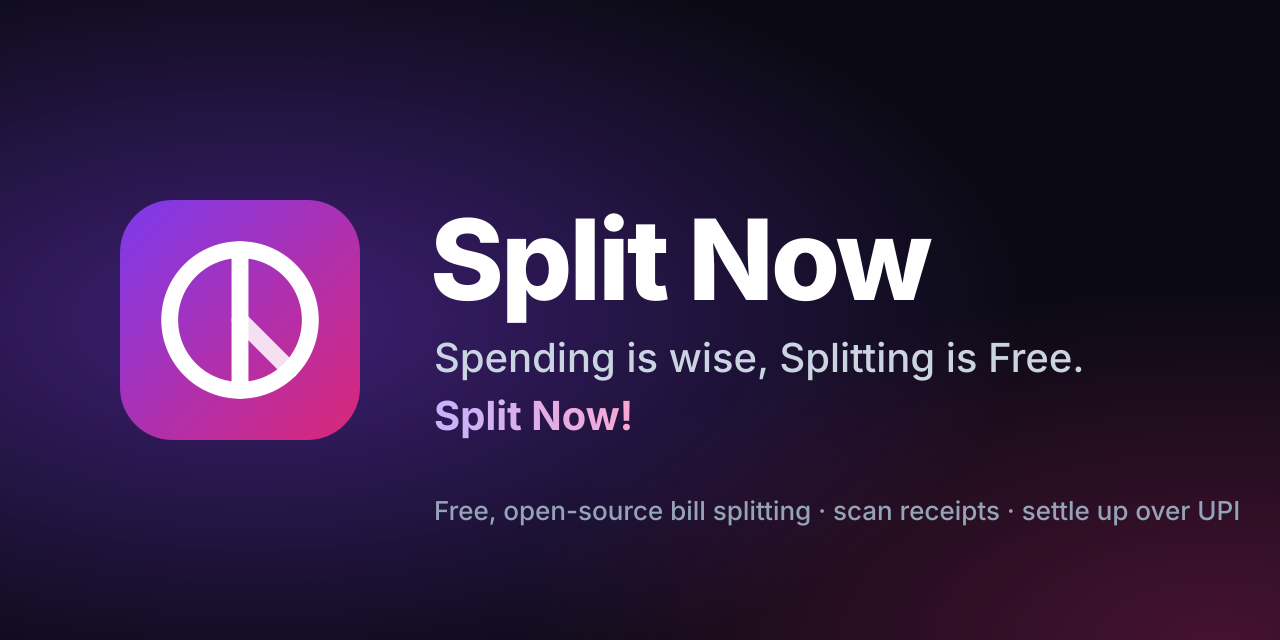
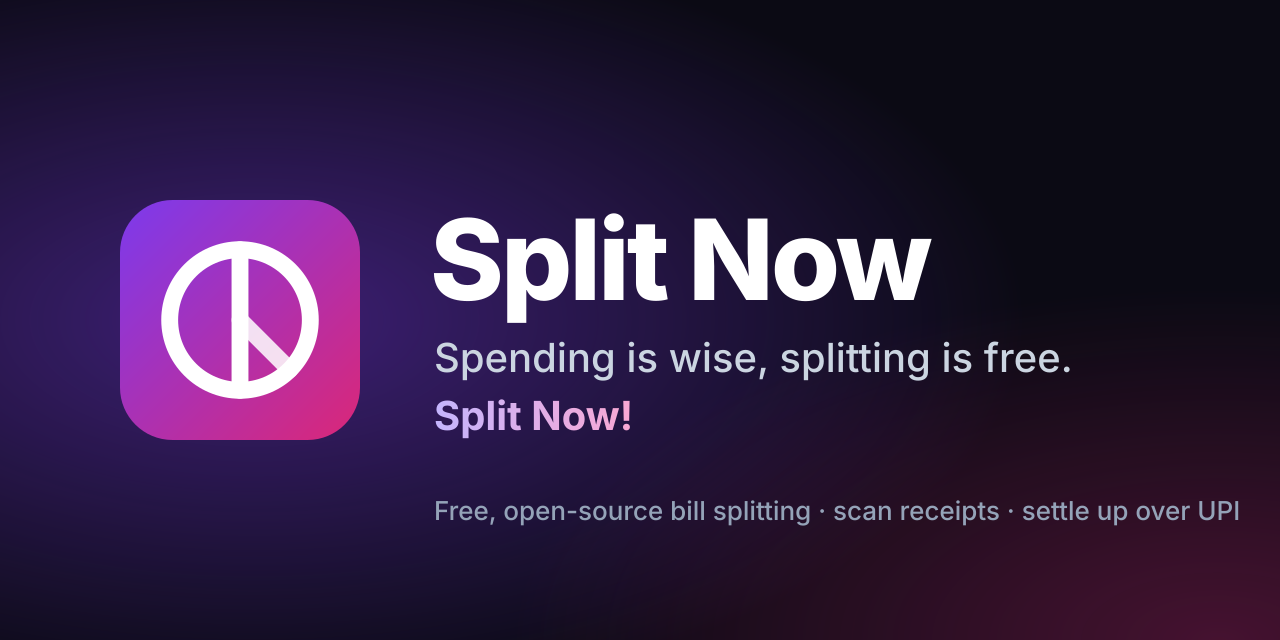
Support the developer in Profile; tagline in sentence case (#18)
* Tagline in sentence case: "Spending is wise, splitting is free. Split Now!"

Only the app name keeps its capitals. Updated in the splash, Login,
Profile, the manifest, meta tags, package.json, the changelog, and the
images that carry it (docs/assets/hero.png, social-preview.png and the
link-preview public/og-image.jpg, all regenerated).

* Profile: Support the developer (Buy Me a Coffee, GitHub Sponsors)

A last row in Profile's links card opens a sheet with the two ways to
chip in and a star on the repository. Every link opens outside the app,
so it works the same for everyone, demo mode included. The URLs live in
SUPPORT_LINKS (src/lib/brand.ts); FUNDING.yml adds Buy Me a Coffee to the
repository's Sponsor button and the README gets badges and a Support
section. No feature flag: static outbound links, nothing to switch off
on the server.

---------

Changed region(s): [[0.5938, 0.5312, 0.8438, 0.5938]]

diff --git a/src/components/SupportSheet.tsx b/src/components/SupportSheet.tsx
@@ -1,0 +1,95 @@
+import type { ReactNode } from 'react'
+import { Coffee, ExternalLink, HandHeart, Heart, Star } from 'lucide-react'
+import { Sheet } from '@/components/Sheet'
+import { SUPPORT_LINKS } from '@/lib/brand'
+
+/**
+ * Profile → Support the developer. Two ways to chip in (Buy Me a Coffee, GitHub Sponsors) and a
+ * star on the repository. Every link opens outside the app (a new tab, or the browser from the
+ * installed app); nothing is paid or recorded inside Split Now, so it works the same in demo mode.
+ */
+export function SupportSheet({ open, onClose }: { open: boolean; onClose: () => void }) {
+  return (
+    <Sheet open={open} onClose={onClose} title="Support the developer" testId="support-sheet" describedBy="support-why">
+      <div className="flex flex-col items-center text-center">
+        <span
+          className="flex h-16 w-16 items-center justify-center rounded-[1.4rem] bg-gradient-to-br from-brand-500 to-duo-500 text-white shadow-lg shadow-brand-600/30"
+          aria-hidden
+        >
+          <HandHeart size={30} strokeWidth={2} />
+        </span>
+        <p id="support-why" className="text-muted mt-4 max-w-sm text-sm leading-relaxed">
+          Split Now is free, open source and has no ads, and I build it on my own. If it has saved your group a few awkward conversations, a coffee or a
+          sponsorship helps pay for hosting and new features.
+        </p>
+        <p className="mt-1.5 text-sm font-semibold">Amrit</p>
+      </div>
+
+      <div className="mt-5 space-y-2.5">
+        <SupportLink
+          href={SUPPORT_LINKS.coffee}
+          testId="support-coffee"
+          className="bg-[#ffdd00] text-slate-900 shadow-sm shadow-amber-500/20 active:bg-[#f5d400]"
+          iconClass="bg-white/60 text-slate-900"
+          icon={<Coffee size={20} aria-hidden />}
+          title="Buy me a coffee"
+          sub="A one-off thank you, any amount"
+        />
+        <SupportLink
+          href={SUPPORT_LINKS.sponsors}
+          testId="support-sponsors"
+          className="bg-slate-900 text-white active:bg-slate-800 dark:bg-white dark:text-slate-900 dark:active:bg-slate-100"
+          iconClass="bg-white/10 text-pink-400 dark:bg-pink-50 dark:text-pink-600"
+          icon={<Heart size={20} fill="currentColor" aria-hidden />}
+          title="Sponsor on GitHub"
+          sub="Monthly or one-time"
+        />
+      </div>
+
+      <a
+        href={SUPPORT_LINKS.repo}
+        target="_blank"
+        rel="noopener noreferrer"
+        className="mx-auto mt-4 flex min-h-11 w-fit items-center gap-1.5 rounded-full px-4 text-sm font-semibold text-brand-600 transition hover:bg-brand-50 active:scale-95 dark:text-brand-300 dark:hover:bg-brand-900/30"
+      >
+        <Star size={16} aria-hidden /> Or star the project on GitHub
+      </a>
+    </Sheet>
+  )
+}
+
+function SupportLink({
+  href,
+  testId,
+  className,
+  iconClass,
+  icon,
+  title,
+  sub,
+}: {
+  href: string
+  testId: string
+  className: string
+  iconClass: string
+  icon: ReactNode
+  title: string
+  sub: string
+}) {
+  return (
+    <a
+      href={href}
+      target="_blank"
+      rel="noopener noreferrer"
+      data-testid={testId}
+      className={`flex min-h-16 items-center gap-3 rounded-2xl p-3 pr-4 text-left transition active:scale-[0.98] ${className}`}
+    >
+      <span className={`flex h-10 w-10 shrink-0 items-center justify-center rounded-xl ${iconClass}`}>{icon}</span>
+      <span className="min-w-0 flex-1">
+        <span className="block font-bold">{title}</span>
+        <span className="block text-xs opacity-75">{sub}</span>
+        <span className="sr-only">, opens outside the app</span>
+      </span>
+      <ExternalLink size={16} className="shrink-0 opacity-60" aria-hidden />
+    </a>
+  )
+}

diff --git a/src/pages/Profile.tsx b/src/pages/Profile.tsx
@@ -1,6 +1,6 @@
 import { useCallback, useEffect, useRef, useState } from 'react'
 import { Link, useLocation, useNavigate } from 'react-router-dom'
-import { Camera, ChevronRight, ImagePlus, LogOut, Settings as SettingsIcon, ShieldCheck, Trash2, Users, Wallet, X } from 'lucide-react'
+import { Camera, ChevronRight, HandHeart, ImagePlus, LogOut, Settings as SettingsIcon, ShieldCheck, Trash2, Users, Wallet, X } from 'lucide-react'
 import { repo } from '@/data'
 import { useMe } from '@/hooks/auth'
 import type { PaymentHandles, UserProfile } from '@/types'
@@ -17,6 +17,7 @@ import { Sheet } from '@/components/Sheet'
 import { Switch } from '@/components/Switch'
 import { useToast } from '@/components/Toast'
 import { AccountCard } from '@/components/ProfileCards'
+import { SupportSheet } from '@/components/SupportSheet'
 import { useAppVersion } from '@/hooks/useAppVersion'
 import { SavedPill, useSavedFlash } from './settings/common'
 
@@ -100,6 +101,7 @@ export default function Profile() {
   const [allHandles, setAllHandles] = useState(false)
   const [photoOpen, setPhotoOpen] = useState(false)
   const [signOutOpen, setSignOutOpen] = useState(false)
+  const [supportOpen, setSupportOpen] = useState(false)
   const [saved, flash] = useSavedFlash()
 
   // Re-sync the form when the saved fields change (not on a photo change, which would drop unsaved edits).
@@ -290,16 +292,35 @@ export default function Profile() {
           </span>
           <ChevronRight size={18} className="text-slate-400" aria-hidden />
         </Link>
+        <button
+          type="button"
+          onClick={() => setSupportOpen(true)}
+          className="flex w-full items-center gap-3 p-4 text-left font-medium transition active:bg-slate-50 dark:active:bg-ink-800"
+          data-testid="profile-support"
+        >
+          <span
+            className="flex h-9 w-9 shrink-0 items-center justify-center rounded-xl bg-pink-50 text-pink-600 dark:bg-pink-500/15 dark:text-pink-300"
+            aria-hidden
+          >
+            <HandHeart size={19} />
+          </span>
+          <span className="min-w-0 flex-1">
+            <span className="block">Support the developer</span>
+            <span className="text-muted block text-xs font-normal">Buy me a coffee or sponsor on GitHub</span>
+          </span>
+          <ChevronRight size={18} className="text-slate-400" aria-hidden />
+        </button>
       </div>
 
       <button type="button" className="btn-secondary mt-6 w-full text-rose-700 dark:text-rose-400" onClick={() => setSignOutOpen(true)} data-testid="sign-out">
         <LogOut size={18} aria-hidden /> Sign out
       </button>
-      <p className="mt-6 text-center text-xs font-semibold text-brand-600/80 dark:text-brand-300/80">Spending is wise, Splitting is Free. Split Now!</p>
+      <p className="mt-6 text-center text-xs font-semibold text-brand-600/80 dark:text-brand-300/80">Spending is wise, splitting is free. Split Now!</p>
       <p className="text-muted mb-10 mt-1 text-center text-xs" data-testid="profile-version">
         Split Now v{version} · {repo.mode === 'demo' ? 'Demo mode' : 'Connected to Firebase'}
       </p>
 
+      <SupportSheet open={supportOpen} onClose={() => setSupportOpen(false)} />
       <PhotoSheet open={photoOpen} onClose={() => setPhotoOpen(false)} profile={profile} googlePhotoURL={user.googlePhotoURL} />
       <Sheet open={signOutOpen} onClose={() => setSignOutOpen(false)} title="Sign out?">
         <p className="text-muted text-sm">

diff --git a/index.html b/index.html
@@ -4,9 +4,9 @@
     <meta charset="UTF-8" />
     <meta name="viewport" content="width=device-width, initial-scale=1, viewport-fit=cover" />
     <title>Split Now</title>
-    <meta name="description" content="Spending is wise, Splitting is Free. Split Now! Split bills with friends, scan receipts and settle up over UPI in a tap." />
+    <meta name="description" content="Spending is wise, splitting is free. Split Now! Split bills with friends, scan receipts and settle up over UPI in a tap." />
     <meta property="og:title" content="Split Now" />
-    <meta property="og:description" content="Spending is wise, Splitting is Free. Split Now!" />
+    <meta property="og:description" content="Spending is wise, splitting is free. Split Now!" />
     <meta property="og:type" content="website" />
     <meta property="og:url" content="https://split-now.web.app" />
     <!-- Link previews (WhatsApp, Slack, X, iMessage): the 1200x630 banner from docs/assets/hero.png. A JPEG on purpose,
@@ -15,7 +15,7 @@
     <meta property="og:image:type" content="image/jpeg" />
     <meta property="og:image:width" content="1200" />
     <meta property="og:image:height" content="630" />
-    <meta property="og:image:alt" content="Split Now: Spending is wise, Splitting is Free. Split Now! Three phones showing Home, a group and Insights." />
+    <meta property="og:image:alt" content="Split Now: Spending is wise, splitting is free. Split Now! Three phones showing Home, a group and Insights." />
     <meta property="og:site_name" content="Split Now" />
     <meta name="twitter:card" content="summary_large_image" />
     <meta name="twitter:image" content="https://split-now.web.app/og-image.jpg" />
@@ -71,7 +71,7 @@
     </script>
   </head>
   <body>
-    <div id="root"><div class="boot" role="img" aria-label="Split Now"><div class="boot-stack"><img class="boot-logo" src="/favicon.svg" alt="" /><p class="boot-tag" aria-hidden="true"><span class="boot-l1">Spending is wise, Splitting is Free.</span><span class="boot-l2">Split Now!</span></p></div></div></div>
+    <div id="root"><div class="boot" role="img" aria-label="Split Now"><div class="boot-stack"><img class="boot-logo" src="/favicon.svg" alt="" /><p class="boot-tag" aria-hidden="true"><span class="boot-l1">Spending is wise, splitting is free.</span><span class="boot-l2">Split Now!</span></p></div></div></div>
     <script type="module" src="/src/main.tsx"></script>
   </body>
 </html>

diff --git a/src/lib/brand.test.ts b/src/lib/brand.test.ts
@@ -1,5 +1,5 @@
 import { describe, expect, it } from 'vitest'
-import { APP_NAME, pageTitle } from './brand'
+import { APP_NAME, pageTitle, SUPPORT_LINKS } from './brand'
 
 describe('pageTitle', () => {
   it('suffixes the app name and falls back to it alone', () => {
@@ -8,5 +8,11 @@ describe('pageTitle', () => {
     expect(pageTitle('')).toBe(APP_NAME)
     expect(pageTitle(null)).toBe(APP_NAME)
     expect(pageTitle(undefined)).toBe(APP_NAME)
+  })
+})
+
+describe('SUPPORT_LINKS', () => {
+  it('are plain https links (they open outside the app)', () => {
+    for (const url of Object.values(SUPPORT_LINKS)) expect(new URL(url).protocol).toBe('https:')
   })
 })

diff --git a/src/pages/Login.tsx b/src/pages/Login.tsx
@@ -56,7 +56,7 @@ export default function Login() {
           <h1 className="text-[clamp(1.5rem,7.4vw,2.25rem)] font-extrabold leading-tight tracking-tight">Split bills, not friendships.</h1>
         </div>
         <p className="mt-4 text-sm font-semibold tracking-wide text-duo-300" data-testid="tagline">
-          Spending is wise, Splitting is Free. Split Now!
+          Spending is wise, splitting is free. Split Now!
         </p>
         <p className="mt-2 text-slate-300">Trips, flats and dinners: fair splits, bill scanning and one-tap UPI settle-ups.</p>
 

diff --git a/vite.config.ts b/vite.config.ts
@@ -80,7 +80,7 @@ export default defineConfig(({ mode }) => {
           id: '/',
           name: 'Split Now — split bills, settle up over UPI',
           short_name: 'Split Now',
-          description: 'Spending is wise, Splitting is Free. Split Now! Split bills with friends, simplify debts and settle up over UPI in a tap.',
+          description: 'Spending is wise, splitting is free. Split Now! Split bills with friends, simplify debts and settle up over UPI in a tap.',
           lang: 'en',
           dir: 'ltr',
           theme_color: '#6d28d9',

diff --git a/src/lib/brand.ts b/src/lib/brand.ts
@@ -20,3 +20,13 @@ export function usePageTitle(title: string | null | undefined) {
     document.title = pageTitle(title)
   }, [title])
 }
+
+/**
+ * Where people can support the project (Profile → Support the developer, the README, and
+ * .github/FUNDING.yml for the repository's Sponsor button). Keep the three in step.
+ */
+export const SUPPORT_LINKS = {
+  coffee: 'https://buymeacoffee.com/amritdash',
+  sponsors: 'https://github.com/sponsors/amrit-dash',
+  repo: 'https://github.com/amrit-dash/split-now',
+} as const

diff --git a/src/App.tsx b/src/App.tsx
@@ -449,7 +449,7 @@ function Splash({ leaving = false }: { leaving?: boolean }) {
       <div className="boot-stack">
         <img className="boot-logo" src="/favicon.svg" alt="" />
         <p className="boot-tag" aria-hidden>
-          <span className="boot-l1">Spending is wise, Splitting is Free.</span>
+          <span className="boot-l1">Spending is wise, splitting is free.</span>
           <span className="boot-l2">Split Now!</span>
         </p>
       </div>

diff --git a/docs/PLAN.md b/docs/PLAN.md
@@ -1,6 +1,6 @@
 # Split Now — End-to-End Product & Technical Plan
 
-> Formerly *Split It*. The repository is `split-now`; the Firebase project id keeps `split-it-prod`. The app is **Split Now** (Hosting: `split-now.web.app`, also `freesplit.web.app`). Tagline: *Spending is wise, Splitting is Free. Split Now!* **Trademark check pending:** "Split Now" has not been cleared against existing app-store listings or Indian / international trademark registrations. Do that before any public launch.
+> Formerly *Split It*. The repository is `split-now`; the Firebase project id keeps `split-it-prod`. The app is **Split Now** (Hosting: `split-now.web.app`, also `freesplit.web.app`). Tagline: *Spending is wise, splitting is free. Split Now!* **Trademark check pending:** "Split Now" has not been cleared against existing app-store listings or Indian / international trademark registrations. Do that before any public launch.
 
 This is the source of truth for what we are building, why, and in what order. It was last brought into line with the code in the October 2026 audit (§9).
 Status markers: ✅ built · 🟡 partially built · ⏳ planned.
@@ -42,7 +42,7 @@ Splitwise solved "who owes whom". Its weak points today are where Split Now goes
 ### 3.1 Accounts, profile and settings
 - ✅ Google sign-in, email/password sign-in and sign-up (Firebase Auth)
 - ✅ Demo mode with no Firebase config: data lives in `localStorage`, so the UI runs immediately (the e2e suite runs against it)
-- ✅ **Profile** (`/profile`) is identity only: photo (upload or Google), name, mobile number, email, sign-in methods, **payment handles by region** (India: UPI ID, bank account + IFSC; Australia: PayID, BSB + account; International: PayPal.me, Revolut; "Show all payment options" reveals the rest) and sign out. One phone field: the mobile number doubles as the UPI number when the switch "Friends can pay this number with UPI" is on. Everything autosaves (800 ms after typing stops, on blur, on leaving) with a quiet "Saved" pill; there is no Save button.
+- ✅ **Profile** (`/profile`) is identity only: photo (upload or Google), name, mobile number, email, sign-in methods, **payment handles by region** (India: UPI ID, bank account + IFSC; Australia: PayID, BSB + account; International: PayPal.me, Revolut; "Show all payment options" reveals the rest), links to Settings and Balances, **Support the developer** (a sheet with Buy Me a Coffee, GitHub Sponsors and a star on the repository; the URLs are `SUPPORT_LINKS` in `src/lib/brand.ts`, mirrored in `.github/FUNDING.yml` and the README) and sign out. One phone field: the mobile number doubles as the UPI number when the switch "Friends can pay this number with UPI" is on. Everything autosaves (800 ms after typing stops, on blur, on leaving) with a quiet "Saved" pill; there is no Save button.
 - ✅ **Settings** (`/settings`, nested routes in `src/pages/Settings.tsx` + `src/pages/settings/*`, one lazy chunk per area): **Preferences** (default currency with the rates refresh, theme, accent, dual-tone), **Notifications**, **Automation** (auto-capture: master switch, filters, trips, capture keys, recent activity; Apple Pay / capture links under "Advanced"), **AI features** (Firebase only: one switch "Read bills and SMS with AI" plus a consent line; which key, model and the own-key form under "Advanced"), **Data** (CSV export of any group, Import from Splitwise, Install Split Now, version) and **Admin** (only for admins; opens `/admin`, §3.8). Old `/profile#auto-capture|#ai|#ai-admin|#notifications|#appearance` deep links redirect to the matching settings route.
 - ✅ **Locale** (`src/lib/locale.ts`): region from `navigator.language` + `Intl` time zone (an Indian time zone wins, so an en-US phone in Asia/Kolkata is still India); numbers and dates use en-IN for India and unknown regions, otherwise the user's locale, always with Western digits (`-u-nu-latn`). `<html lang>` stays `en` because the copy is English.
 - ⏳ Apple sign-in (needs an Apple developer account), phone OTP

diff --git a/README.md b/README.md
@@ -4,7 +4,7 @@
 
 # Split Now
 
-### Spending is wise, Splitting is Free. Split Now!
+### Spending is wise, splitting is free. Split Now!
 
 **Split bills, not friendships.** A free, open-source expense-splitting app for friends, flatmates and trips:<br />
 bill scanning, live table splits, UPI-first settle-ups and optional AI.
@@ -12,6 +12,8 @@ bill scanning, live table splits, UPI-first settle-ups and optional AI.
 [![Live app](https://img.shields.io/badge/try%20it-split--now.web.app-7c3aed?style=for-the-badge&logo=firebase&logoColor=white)](https://split-now.web.app)
 [![License: MIT](https://img.shields.io/badge/license-MIT-c026d3?style=for-the-badge)](LICENSE)
 [![PWA](https://img.shields.io/badge/PWA-installable-a855f7?style=for-the-badge&logo=pwa&logoColor=white)](#install-it)
+[![Buy me a coffee](https://img.shields.io/badge/buy%20me%20a%20coffee-ffdd00?style=for-the-badge&logo=buymeacoffee&logoColor=000)](https://buymeacoffee.com/amritdash)
+[![GitHub Sponsors](https://img.shields.io/badge/sponsor-db2777?style=for-the-badge&logo=githubsponsors&logoColor=white)](https://github.com/sponsors/amrit-dash)
 
 ![React](https://img.shields.io/badge/React_19-20232a?logo=react&logoColor=61dafb)
 ![TypeScript](https://img.shields.io/badge/TypeScript-3178c6?logo=typescript&logoColor=white)
@@ -152,6 +154,15 @@ Next up is **on-device AI with Gemma**: no API calls, private, offline. See [#3]
 ## Contributing
 
 Issues and pull requests are welcome; start with [CONTRIBUTING.md](CONTRIBUTING.md). Questions and ideas go to [Discussions](https://github.com/amrit-dash/split-now/discussions). For security problems, see [SECURITY.md](SECURITY.md).
+
+## Support the project
+
+Split Now is free, has no ads and is built by one person. If it has saved your group a few awkward conversations, you can help pay for hosting and new features:
+
+<a href="https://buymeacoffee.com/amritdash"><img src="https://img.shields.io/badge/Buy_me_a_coffee-ffdd00?style=for-the-badge&logo=buymeacoffee&logoColor=000" alt="Buy me a coffee" /></a>
+<a href="https://github.com/sponsors/amrit-dash"><img src="https://img.shields.io/badge/Sponsor_on_GitHub-db2777?style=for-the-badge&logo=githubsponsors&logoColor=white" alt="Sponsor on GitHub" /></a>
+
+The same two links are in the app under **Profile → Support the developer**. A star on the repository helps too.
 
 ## License
 

diff --git a/CHANGELOG.md b/CHANGELOG.md
@@ -4,7 +4,7 @@
 
 The first open-source release, under the new name.
 
-- **Split Now**: renamed from Split It, with the tagline "Spending is wise, Splitting is Free. Split Now!", a second address at freesplit.web.app, and the code public under MIT with contributor docs, issue and discussion forms.
+- **Split Now**: renamed from Split It, with the tagline "Spending is wise, splitting is free. Split Now!", a second address at freesplit.web.app, and the code public under MIT with contributor docs, issue and discussion forms.
 - **New look on launch**: a dark animated splash (the logo pops in, slides up, the tagline follows), a full-bleed Android home-screen icon that matches iOS, and link previews with the app banner.
 - **Settle up**: an animated cheque icon on every settle button, settle one person across several groups in one payment, round the payment down or waive the rest.
 - **Faster**: one shared live connection per list across screens (no spinner when switching tabs), a lighter first load (self-hosted font, hand-drawn charts instead of a chart library, screens fetched ahead of time), a single OCR worker.
